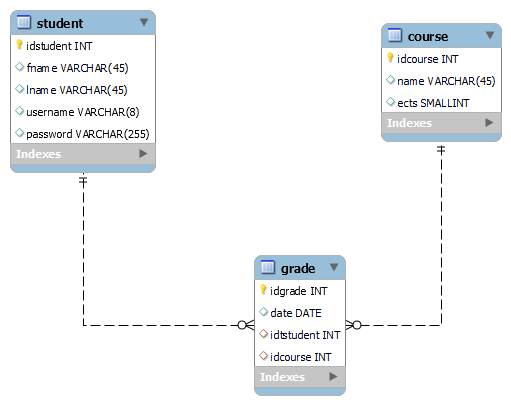
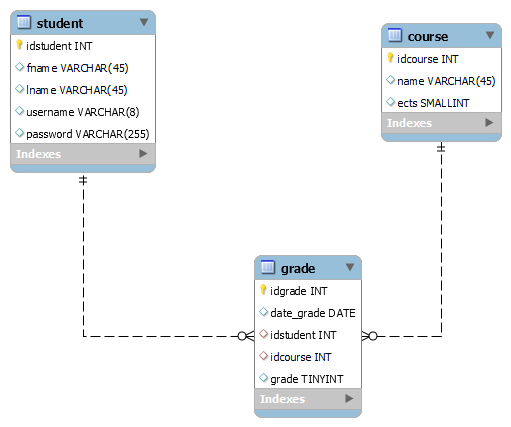
grade taulun crud operaatiot tehty

Changed region(s): [[0.1761, 0.5926, 0.8806, 1.0], [0.0, 0.0296, 0.3229, 0.4444], [0.7339, 0.0296, 0.998, 0.3852]]

diff --git a/backend/routes/grade.js b/backend/routes/grade.js
@@ -1,0 +1,65 @@
+const express = require('express');
+const router = express.Router();
+const grade = require('../models/grade_model');
+
+router.get('/',function(request,response){
+    grade.getAll(function(err,dbResult){
+        if(err){
+            response.json(err);
+        }
+        else{
+            response.json(dbResult);
+        }
+    })
+});
+
+router.get('/:id',
+    function (request, response) {
+        grade.getById(request.params.id, function (err, dbResult) {
+            if (err) {
+                response.json(err);
+            } else {
+                response.json(dbResult[0]);
+            }
+        })
+    });
+
+
+router.post('/', 
+function(request, response) {
+  grade.add(request.body, function(err, dbResult) {
+    if (err) {
+      response.json(err);
+    } else {
+      //response.json(dbResult);
+      response.json(dbResult.affectedRows);
+    }
+  });
+});
+
+
+router.delete('/:id', 
+function(request, response) {
+  grade.delete(request.params.id, function(err, dbResult) {
+    if (err) {
+      response.json(err);
+    } else {
+      response.json(dbResult.affectedRows);
+    }
+  });
+});
+
+
+router.put('/:id', 
+function(request, response) {
+  grade.update(request.params.id, request.body, function(err, dbResult) {
+    if (err) {
+      response.json(err);
+    } else {
+      response.json(dbResult.affectedRows);
+    }
+  });
+});
+
+
+module.exports=router;

diff --git a/backend/models/grade_model.js b/backend/models/grade_model.js
@@ -1,0 +1,31 @@
+const db = require('../database');
+
+const grade = {
+  getAll: function(callback) {
+    return db.query('select idgrade,DATE_FORMAT(date_grade,"%d.%m.%Y") as date_grade,idstudent,idcourse,grade from grade', callback);
+  },
+  getById: function(id, callback) {
+    return db.query('select idgrade,DATE_FORMAT(date_grade,"%d.%m.%Y") as date_grade,idstudent,idcourse,grade from grade where idgrade=?', [id], callback);
+  },
+  getByStudentId:function(id,callback){
+    return db.query('select name,grade from course inner join grade on course.idcourse=grade.idcourse where idstudent=?',[id],callback);
+  },
+  add: function(grade, callback) {
+    return db.query(
+      'insert into grade (date_grade,idstudent,idcourse,grade) values(?,?,?,?)',
+      [grade.date_grade, grade.idstudent, grade.idcourse, grade.grade],
+      callback
+    );
+  },
+  delete: function(id, callback) {
+    return db.query('delete from grade where idgrade=?', [id], callback);
+  },
+  update: function(id, grade, callback) {
+    return db.query(
+      'update grade set date_grade=?,idstudent=?, idcourse=?,grade? where idgrade=?',
+      [grade.date_grade, grade.idstudent, grade.idcourse, grade.grade, id],
+      callback
+    );
+  }
+};
+module.exports = grade;

diff --git a/backend/app.js b/backend/app.js
@@ -7,6 +7,8 @@ const dotenv=require('dotenv');
 var indexRouter = require('./routes/index');
 var courseRouter = require('./routes/course');
 var studentRouter = require('./routes/student');
+var gradeRouter = require('./routes/grade');
+var studentGradeRouter = require('./routes/studentgrade');
 
 
 var app = express();
@@ -21,6 +23,8 @@ app.use(express.static(path.join(__dirname, 'public')));
 app.use('/', indexRouter);
 app.use('/course', courseRouter);
 app.use('/student', studentRouter);
+app.use('/grade', gradeRouter);
+app.use('/studentgrade', studentGradeRouter);
 
 
 module.exports = app;

diff --git a/backend/routes/studentgrade.js b/backend/routes/studentgrade.js
@@ -1,0 +1,17 @@
+const express = require('express');
+const router = express.Router();
+const grade = require('../models/grade_model');
+
+router.get('/:id',function(request,response){
+    grade.getByStudentId(request.params.id,function(err,dbResult){
+        if(err){
+            response.json(err);
+        }
+        else{
+            response.json(dbResult);
+        }
+    })
+});
+
+
+module.exports=router;
